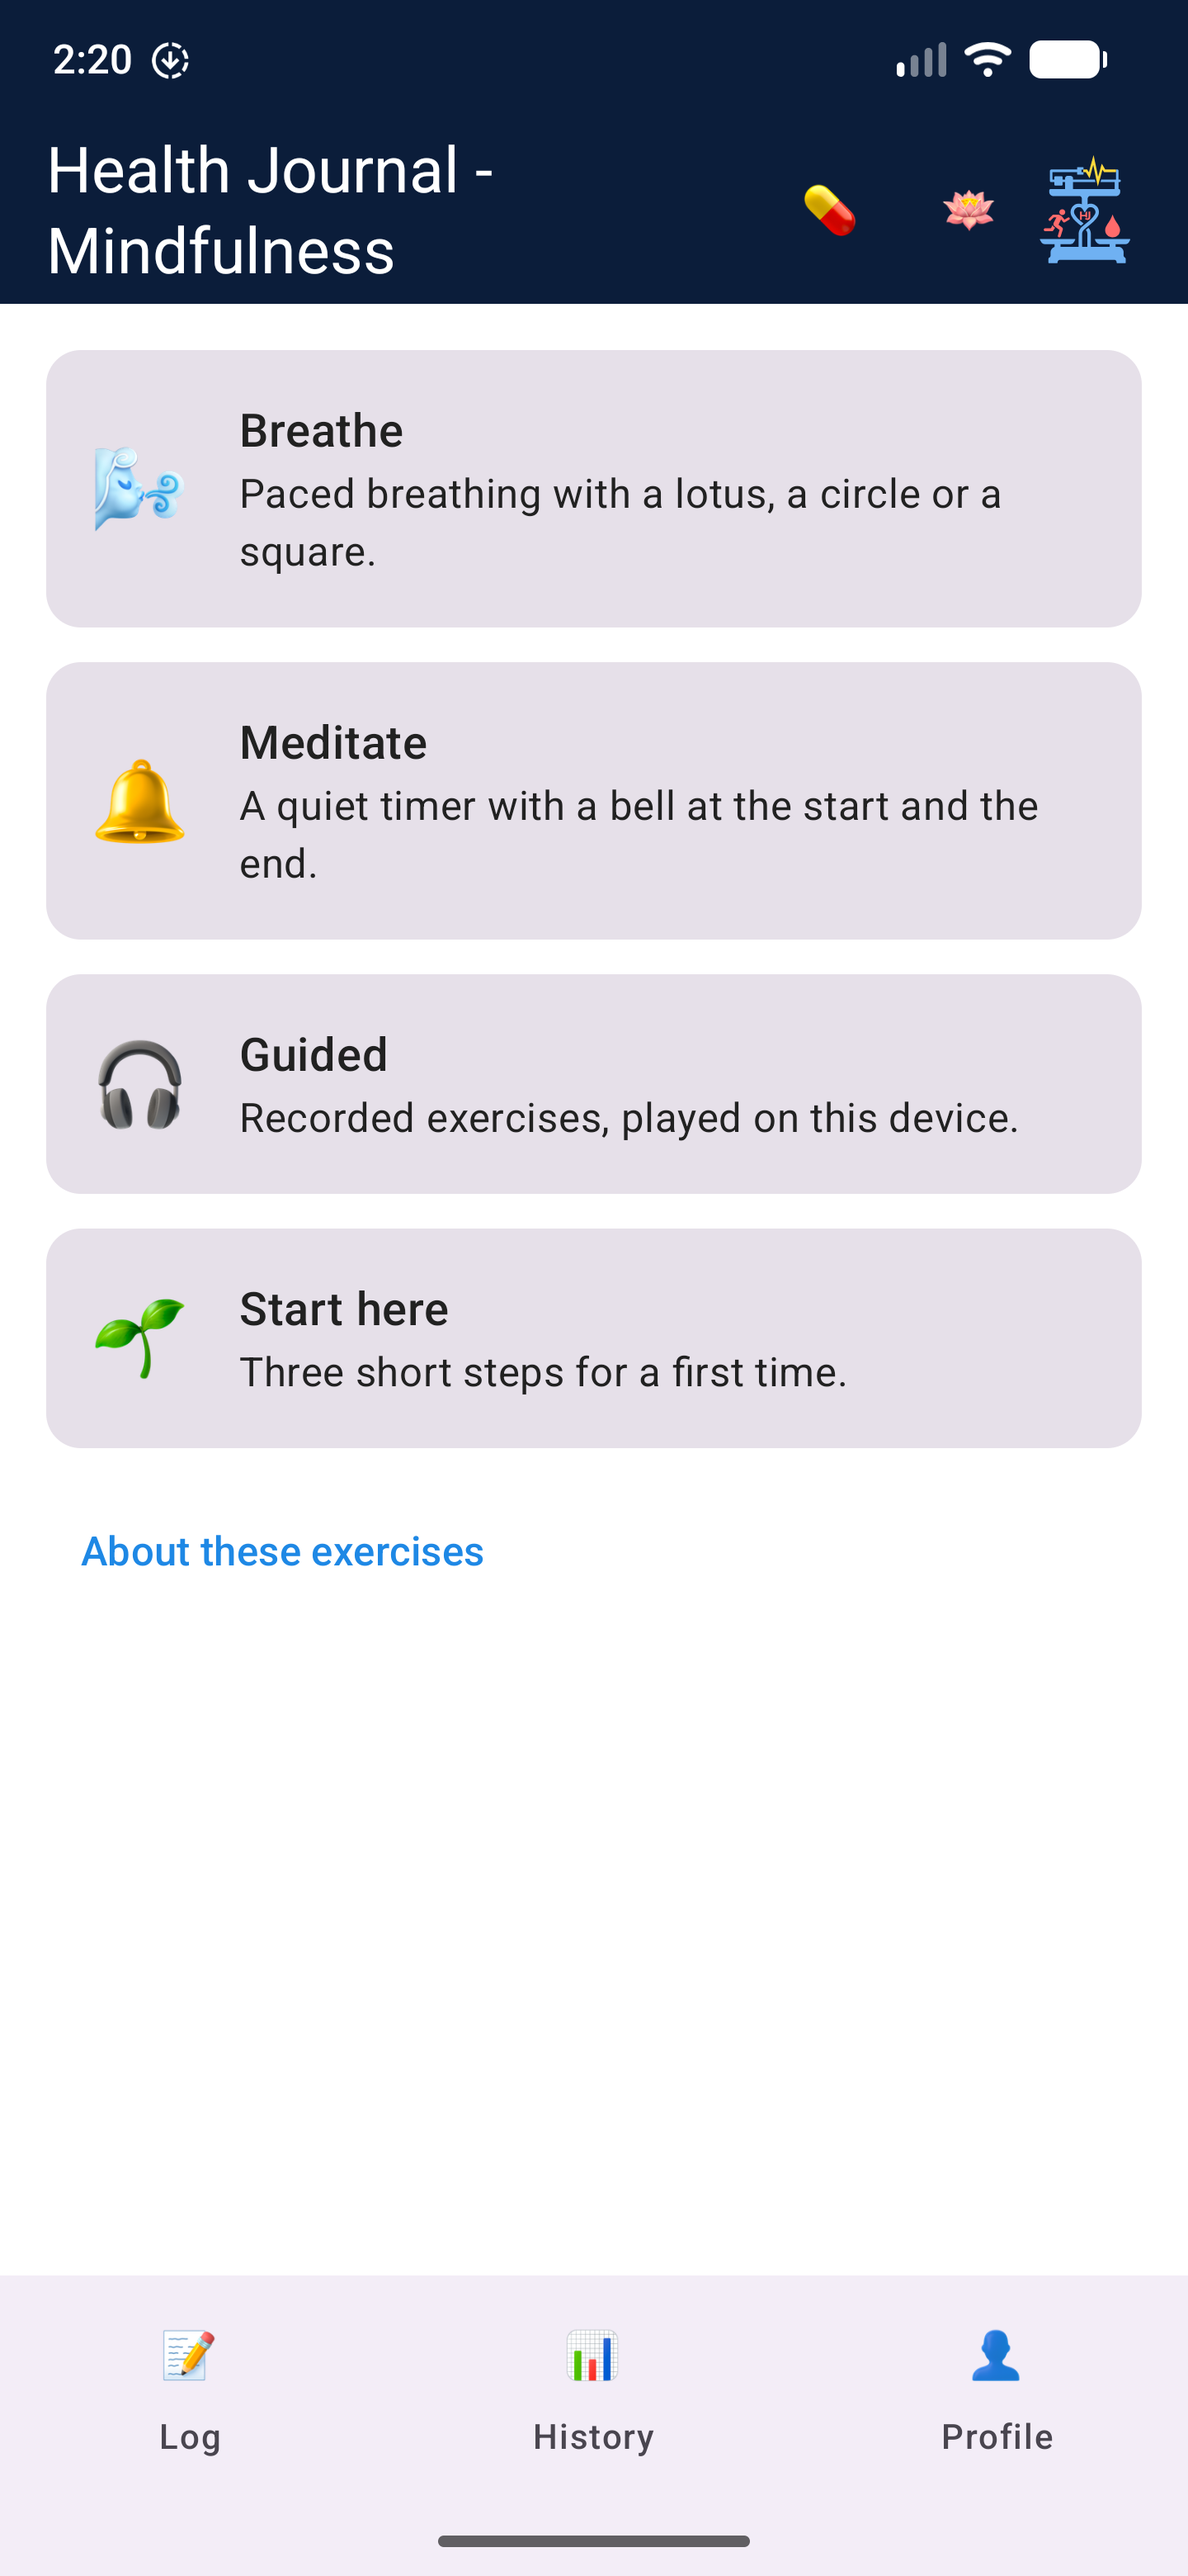
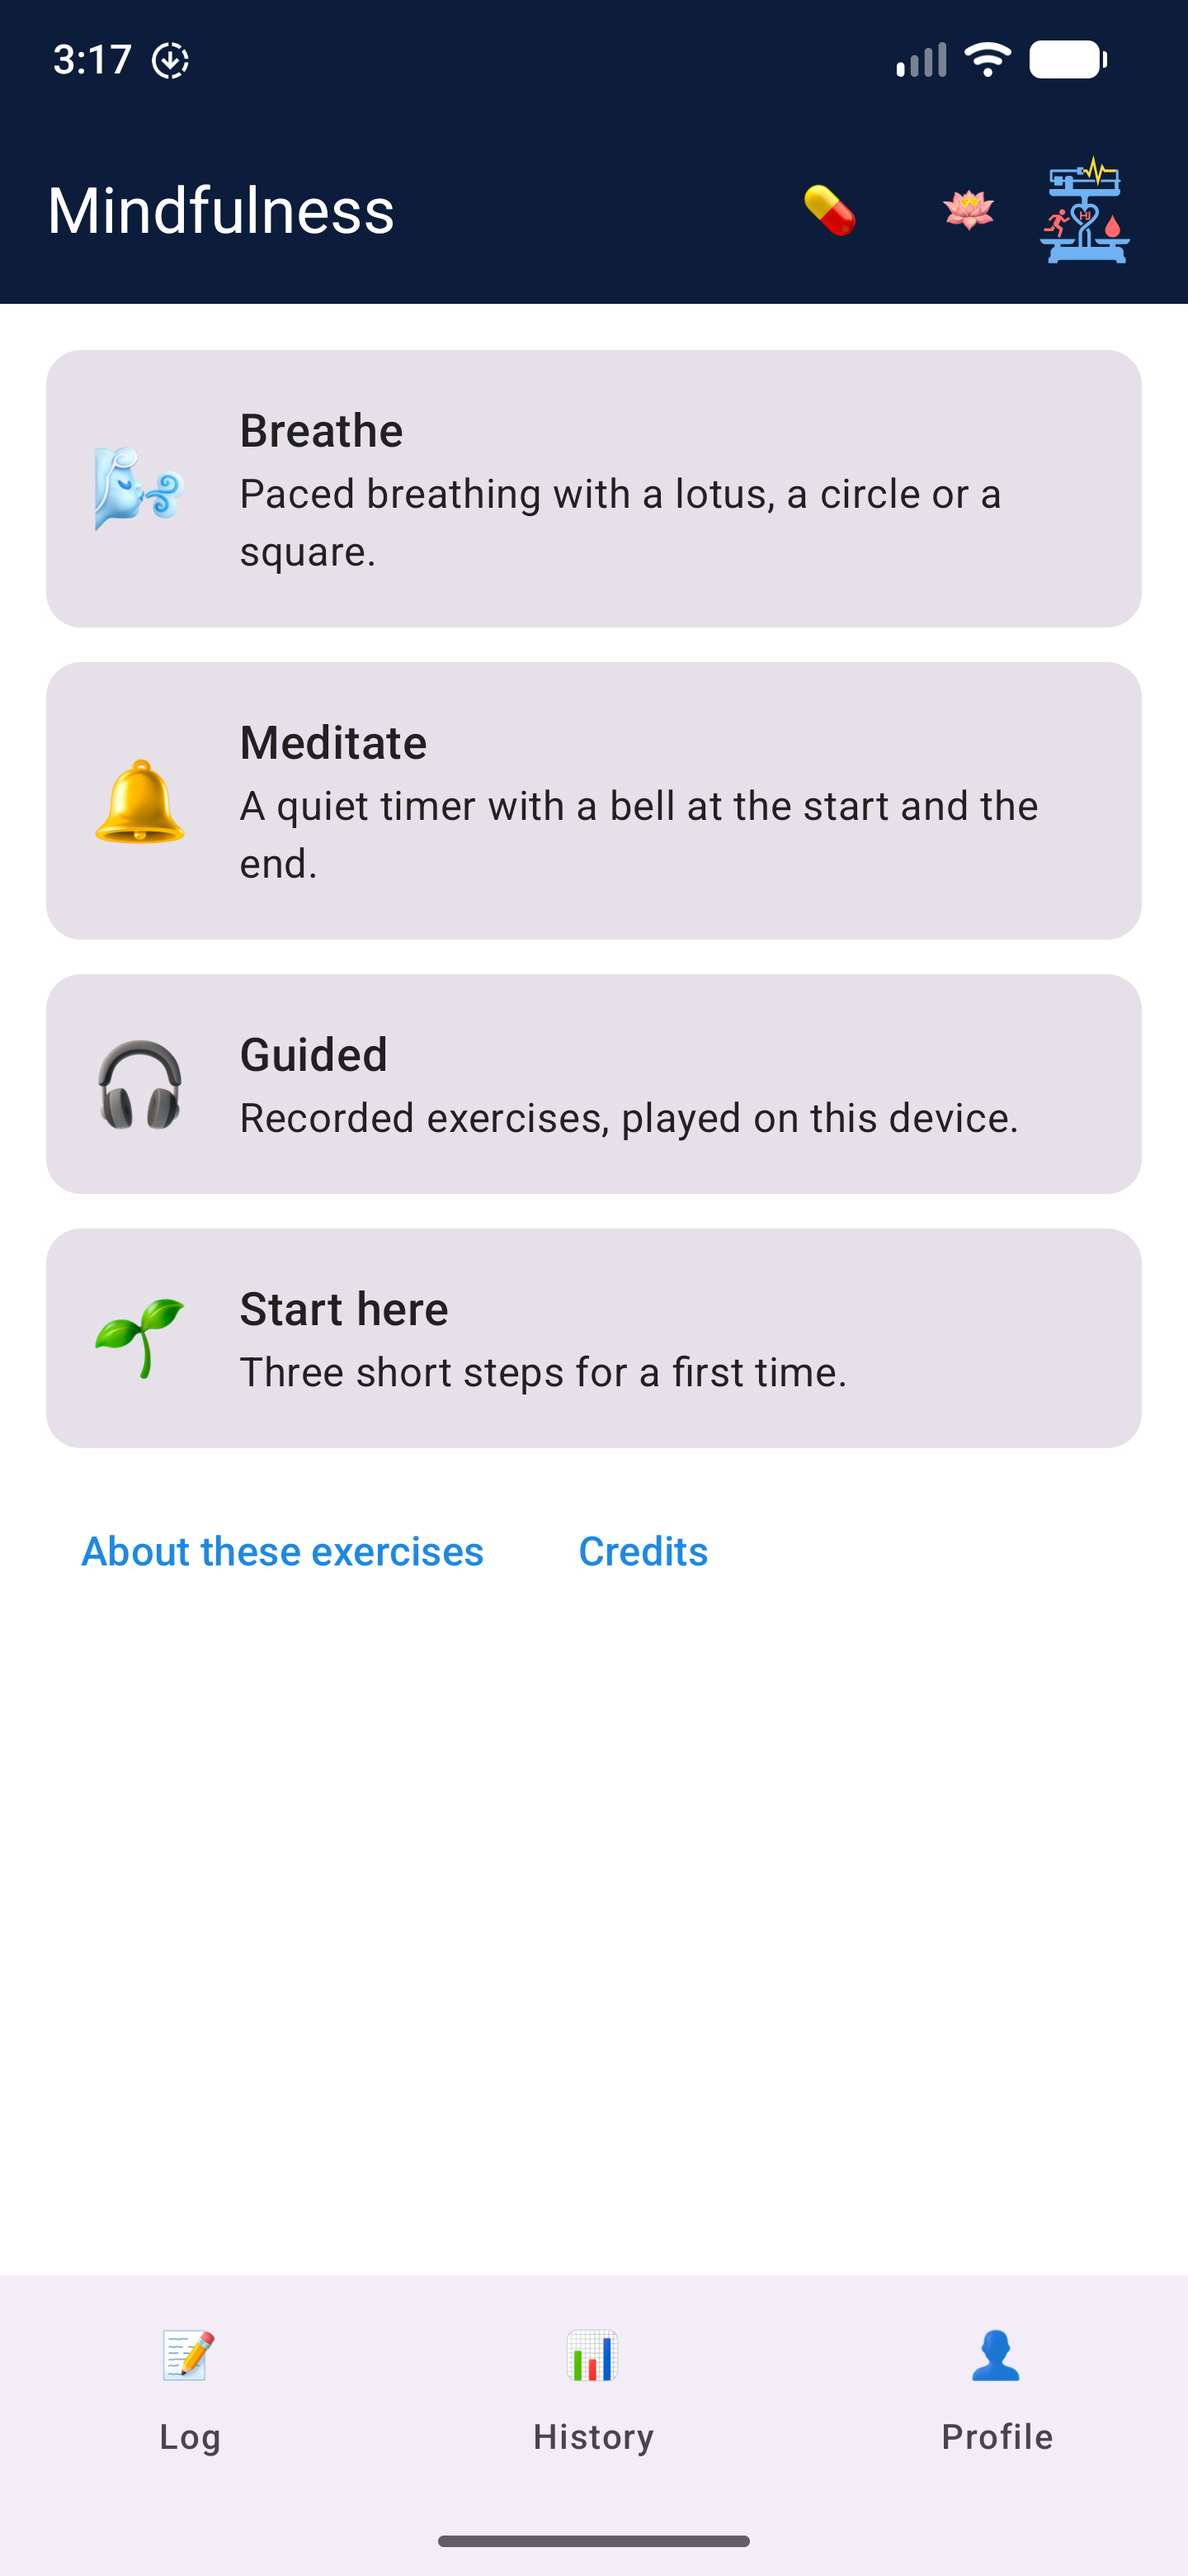
feat: Credits screen with source, author and licence of each recording; docs/credits.md; screenshots and docs

Changed region(s): [[0.0312, 0.0622, 0.375, 0.1244], [0.5, 0.5907, 0.5938, 0.6218], [0.0625, 0.0, 0.125, 0.0311]]

diff --git a/app/src/main/java/nl/healthjournal/app/ui/mindfulness/CreditsScreen.kt b/app/src/main/java/nl/healthjournal/app/ui/mindfulness/CreditsScreen.kt
@@ -1,0 +1,60 @@
+package nl.healthjournal.app.ui.mindfulness
+
+import androidx.compose.foundation.layout.Arrangement
+import androidx.compose.foundation.layout.Column
+import androidx.compose.foundation.layout.Row
+import androidx.compose.foundation.layout.fillMaxWidth
+import androidx.compose.foundation.layout.padding
+import androidx.compose.foundation.rememberScrollState
+import androidx.compose.foundation.verticalScroll
+import androidx.compose.material3.MaterialTheme
+import androidx.compose.material3.Text
+import androidx.compose.material3.TextButton
+import androidx.compose.runtime.Composable
+import androidx.compose.ui.Modifier
+import androidx.compose.ui.platform.LocalUriHandler
+import androidx.compose.ui.res.stringResource
+import androidx.compose.ui.unit.dp
+import nl.healthjournal.app.R
+import nl.healthjournal.domain.model.mindfulness.GuidedExerciseCatalogue
+
+/**
+ * Where the outside material of the area comes from: each recording with its teacher, source and licence, and links
+ * to the original and to the licence text. The links open in the browser of the device; the app itself has no network
+ * access.
+ */
+@Composable
+fun CreditsScreen() {
+    val appLanguage = appContentLanguage()
+    val uriHandler = LocalUriHandler.current
+    Column(
+        modifier = Modifier.fillMaxWidth().verticalScroll(rememberScrollState()).padding(16.dp),
+        verticalArrangement = Arrangement.spacedBy(12.dp)
+    ) {
+        Text(stringResource(R.string.mindfulness_home_credits), style = MaterialTheme.typography.titleLarge)
+        Text(stringResource(R.string.credits_intro), style = MaterialTheme.typography.bodyLarge)
+        GuidedExerciseCatalogue.exercises.forEach { exercise ->
+            val credit = exercise.credit
+            Column {
+                Text(exercise.title.forLanguage(appLanguage), style = MaterialTheme.typography.titleMedium)
+                Text(
+                    stringResource(R.string.credits_item, credit.author, credit.sourceName),
+                    style = MaterialTheme.typography.bodyMedium
+                )
+                Text(
+                    stringResource(R.string.credits_licence, credit.licenceName),
+                    style = MaterialTheme.typography.bodyMedium
+                )
+                Row(horizontalArrangement = Arrangement.spacedBy(8.dp)) {
+                    TextButton(onClick = { uriHandler.openUri(credit.sourceUrl) }) {
+                        Text(stringResource(R.string.credits_open_original))
+                    }
+                    TextButton(onClick = { uriHandler.openUri(credit.licenceUrl) }) {
+                        Text(stringResource(R.string.credits_open_licence))
+                    }
+                }
+            }
+        }
+        Text(stringResource(R.string.credits_own), style = MaterialTheme.typography.bodyMedium)
+    }
+}

diff --git a/app/src/main/java/nl/healthjournal/app/ui/mindfulness/MindfulnessArea.kt b/app/src/main/java/nl/healthjournal/app/ui/mindfulness/MindfulnessArea.kt
@@ -17,7 +17,7 @@ import nl.healthjournal.domain.model.mindfulness.GuidedExerciseCatalogue
 import nl.healthjournal.domain.model.mindfulness.MeditationTimer
 import nl.healthjournal.domain.model.mindfulness.StartHereStep
 
-private enum class MindfulnessRoute { SAFETY_NOTE, ABOUT, HOME, START_HERE, BREATHE_SETUP, BREATHE_RUN, MEDITATE_SETUP, MEDITATE_RUN, GUIDED_LIST, GUIDED_PLAY }
+private enum class MindfulnessRoute { SAFETY_NOTE, ABOUT, CREDITS, HOME, START_HERE, BREATHE_SETUP, BREATHE_RUN, MEDITATE_SETUP, MEDITATE_RUN, GUIDED_LIST, GUIDED_PLAY }
 
 /**
  * The Mindfulness area: home, the breathing and meditation setups and the running exercise. Back goes one step up;
@@ -43,6 +43,7 @@ fun MindfulnessArea() {
     var guidedId by rememberSaveable { mutableStateOf<String?>(null) }
 
     BackHandler(enabled = route == MindfulnessRoute.ABOUT) { route = aboutBackTo }
+    BackHandler(enabled = route == MindfulnessRoute.CREDITS) { route = MindfulnessRoute.HOME }
     BackHandler(enabled = route == MindfulnessRoute.BREATHE_SETUP || route == MindfulnessRoute.MEDITATE_SETUP) { route = setupBackTo }
     BackHandler(enabled = route == MindfulnessRoute.GUIDED_LIST || route == MindfulnessRoute.START_HERE) { route = MindfulnessRoute.HOME }
 
@@ -58,6 +59,7 @@ fun MindfulnessArea() {
             },
         )
         MindfulnessRoute.ABOUT -> AboutExercisesScreen()
+        MindfulnessRoute.CREDITS -> CreditsScreen()
         MindfulnessRoute.HOME -> MindfulnessHomeScreen(
             onBreathe = {
                 setupBackTo = MindfulnessRoute.HOME
@@ -68,6 +70,7 @@ fun MindfulnessArea() {
                 route = MindfulnessRoute.MEDITATE_SETUP
             },
             onStartHere = { route = MindfulnessRoute.START_HERE },
+            onCredits = { route = MindfulnessRoute.CREDITS },
             onGuided = { route = MindfulnessRoute.GUIDED_LIST },
             onAbout = {
                 aboutBackTo = MindfulnessRoute.HOME

diff --git a/app/src/main/java/nl/healthjournal/app/ui/mindfulness/MindfulnessHomeScreen.kt b/app/src/main/java/nl/healthjournal/app/ui/mindfulness/MindfulnessHomeScreen.kt
@@ -29,6 +29,7 @@ fun MindfulnessHomeScreen(
     onGuided: () -> Unit = {},
     onStartHere: () -> Unit = {},
     onAbout: () -> Unit = {},
+    onCredits: () -> Unit = {},
 ) {
     Column(
         modifier = Modifier
@@ -41,7 +42,10 @@ fun MindfulnessHomeScreen(
         HomeCard("🔔", R.string.mindfulness_home_meditate, R.string.mindfulness_home_meditate_desc, onMeditate)
         HomeCard("🎧", R.string.mindfulness_home_guided, R.string.mindfulness_home_guided_desc, onGuided)
         HomeCard("🌱", R.string.mindfulness_home_start_here, R.string.mindfulness_home_start_here_desc, onStartHere)
-        TextButton(onClick = onAbout) { Text(stringResource(R.string.mindfulness_home_about)) }
+        Row(horizontalArrangement = Arrangement.spacedBy(8.dp)) {
+            TextButton(onClick = onAbout) { Text(stringResource(R.string.mindfulness_home_about)) }
+            TextButton(onClick = onCredits) { Text(stringResource(R.string.mindfulness_home_credits)) }
+        }
     }
 }
 

diff --git a/docs/credits.md b/docs/credits.md
@@ -1,0 +1,21 @@
+# Credits
+
+Outside material in the app, with its author, source and licence. The same list is shown in the app on the Mindfulness Credits screen ("Bronnen" in Dutch), which links to the originals and to the licence texts. The source code of the project is under the Apache License 2.0 (`LICENSE`, `NOTICE`); the material below is not covered by it and stays under its own licence.
+
+## Recorded exercises
+
+All three are by Peter Morgan, from the [Free Mindfulness Project](https://www.freemindfulness.org/download), and are used unchanged (not re-encoded, trimmed or mixed). The files are in `app/src/main/res/raw/`.
+
+| Exercise | File | Length | SHA-256 |
+|----------|------|--------|---------|
[3 lines of base64/hex data omitted]
+
+Licence: [Creative Commons Attribution-NonCommercial-ShareAlike 3.0 Unported](https://creativecommons.org/licenses/by-nc-sa/3.0/), as stated on the project's download page when the files were added (2026-10-21). Because of the NonCommercial term the app stays free of charge and without advertising while it contains these recordings.
+
+## Made for the app
+
+The texts (English and Dutch), the pictures and animations, and the tones and bells (generated in code) are made for this app and are under the licence of the project.
+
+The data lives in `GuidedExerciseCatalogue` ([`GuidedExercise.kt`](../domain/src/main/kotlin/nl/healthjournal/domain/model/mindfulness/GuidedExercise.kt)); a new recording is added there with its credit and to this file in the same change.

diff --git a/docs/screenshots.md b/docs/screenshots.md
@@ -76,6 +76,7 @@ All screenshots of the Health Journal app, in the light and dark theme. Back to 
 |-------|------|
 | <img src="screenshots/light-mindfulness-home.png" width="250" alt="Mindfulness home with Breathe, Meditate, Guided and Start here, light theme"> | <img src="screenshots/dark-mindfulness-home.png" width="250" alt="Mindfulness home with Breathe, Meditate, Guided and Start here, dark theme"> |
 | <img src="screenshots/light-mindfulness-start-here.png" width="250" alt="Start here with the three steps, light theme"> | <img src="screenshots/dark-mindfulness-start-here.png" width="250" alt="Start here with the three steps, dark theme"> |
+| <img src="screenshots/light-mindfulness-credits.png" width="250" alt="Credits with each recording, its teacher, licence and links, light theme"> | <img src="screenshots/dark-mindfulness-credits.png" width="250" alt="Credits with each recording, its teacher, licence and links, dark theme"> |
 | <img src="screenshots/light-mindfulness-breathe-setup.png" width="250" alt="Breathing setup with pattern, length, picture and cues, light theme"> | <img src="screenshots/dark-mindfulness-breathe-setup.png" width="250" alt="Breathing setup with pattern, length and picture, dark theme"> |
 | <img src="screenshots/light-mindfulness-breathe-voices.png" width="250" alt="Spoken cues with the voice picker and a Preview button for each offline voice, light theme"> | <img src="screenshots/dark-mindfulness-breathe-voices.png" width="250" alt="Spoken cues with the voice picker and a Preview button for each offline voice, dark theme"> |
 | <img src="screenshots/light-mindfulness-safety-note.png" width="250" alt="The first-open safety note with one button and a Read more link, light theme"> | <img src="screenshots/dark-mindfulness-safety-note.png" width="250" alt="The first-open safety note with one button and a Read more link, dark theme"> |

diff --git a/openspec/changes/add-mindfulness/tasks.md b/openspec/changes/add-mindfulness/tasks.md
@@ -35,7 +35,7 @@
 ## 3. Docs
 - [ ] 3.1 Rewrite `docs/dev/mindfulness.md` for the real feature; update `docs/dev/README.md`, `architecture.md`, `design.md`
 - [ ] 3.2 README (key features, roadmap), CHANGELOG, in-app privacy notice
-- [ ] 3.3a `docs/credits.md` with teacher, source URL, licence, version and file name of each recording
-- [ ] 3.3 Credits screen (English "Credits", Dutch "Bronnen") and a credits record in `docs/` with source, author, licence and version of every outside item; review against design decision 9
+- [x] 3.3a `docs/credits.md` with teacher, source URL, licence, version and file name of each recording (plus file hashes)
+- [x] 3.3 (checked on the emulator) Credits screen (English "Credits", Dutch "Bronnen") and a credits record in `docs/` with source, author, licence and version of every outside item; review against design decision 9
 - [ ] 3.4 Merge the deltas into `openspec/specs` (mindfulness, privacy, platform-android, localization) and archive the change
 - [ ] 3.5 `bash scripts/check-docs.sh` and `npx --no-install openspec validate --all --strict` pass

diff --git a/docs/dev/mindfulness-feature.md b/docs/dev/mindfulness-feature.md
@@ -308,6 +308,6 @@ Add a value to `BreathingVisual`, a draw function in [`BreathingCanvas.kt`](../.
 | Strings in English and Dutch | 2.8 | done for the built screens |
 | `VIBRATE` permission, privacy checks | 2.9 | not started |
 | Emulator check | 2.10 | not started |
-| Credits screen (Credits / Bronnen) and credits record | 3.3, 3.3a | not started |
+| Credits screen (Credits / Bronnen) and credits record | 3.3, 3.3a | built: `CreditsScreen` from a link on the home screen lists each recording with teacher, source, licence and links to the original and the licence text; [`docs/credits.md`](../credits.md) holds the same record (checked on the emulator in light and dark; the Original link opens the browser) |
 
 The living list is [`tasks.md`](../../openspec/changes/add-mindfulness/tasks.md).
